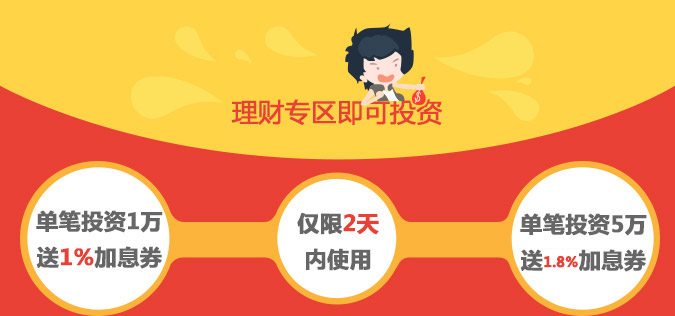
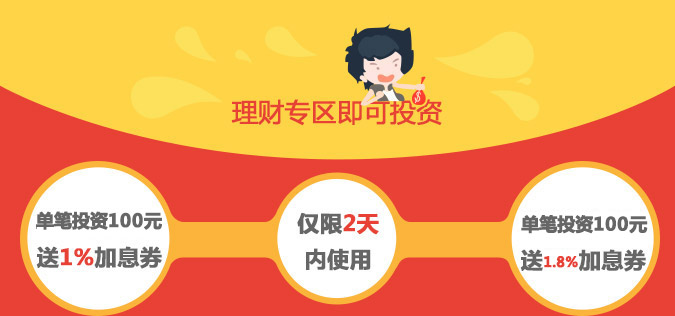
修改秒杀文案

Changed region(s): [[0.0311, 0.6551, 0.2489, 0.7405], [0.7467, 0.6551, 0.9644, 0.7405]]

diff --git a/static/styles/pc_activity/seckill.css b/static/styles/pc_activity/seckill.css
@@ -1,1 +1,1 @@
-.footer-sprite{background:url('../../imgs/pc/footer-s2fc267f4e7.png') no-repeat}.home-sprite{background:url('../../imgs/pc/home-sc828d2d236.png') no-repeat}.seckill-sprite,.seckill .banner .nextAuto .jinbi,.seckill .banner .nextAuto .biaoqian,.seckill .wAuto .pageTitle .pageIcon1,.seckill .wAuto .pageTitle .pageIcon2,.seckill .wAuto .pageContent span,.seckill .wAuto .pageImg,.seckill .wAuto .page3Title,.seckill .footDiv .footMargin .iphone,.seckill .footDiv .footMargin .fonts,.seckill .footDiv .footMargin .erweima{background:url('../../imgs/pc_activity/seckill-sb63c9f9921.png') no-repeat}.experience_gold-sprite{background:url('../../imgs/pc_activity/experience_gold-s13cfc1659e.png') no-repeat}@-webkit-keyframes start{0%{top:-182px}60%{top:82px}100%{top:100px}}@keyframes start{0%{top:-82px}60%{top:82px}100%{top:100px}}@-webkit-keyframes fontsFrames{0%{opacity:0;background-size:0 0}100%{opacity:1;background-size:100% 100%}}@keyframes fontsFrames{0%{opacity:0;background-size:0 0}100%{opacity:1;background-size:100% 100%}}@-webkit-keyframes widthS{0%{opacity:0;width:0}100%{opacity:1;width:645px}}@keyframes widthS{0%{opacity:0;width:0}100%{opacity:1;width:645px}}.seckill{width:100%;height:100%}.seckill .banner{background:url("/static/imgs/pc_activity/seckill/bannerNew.jpg") center center no-repeat;height:684px}.seckill .banner .nextAuto{width:1100px;height:100%;margin:0 auto;position:relative}.seckill .banner .nextAuto a{position:absolute;display:inline-block;width:140px;height:45px;right:241px;bottom:94px;z-index:100}.seckill .banner .nextAuto .jinbi{background-position:0 -809px;height:601px;width:687px;position:absolute;top:82px;left:239px;-webkit-animation:start 1s 1;animation:start 1s 1}.seckill .banner .nextAuto .bannerFonts{background:url("/static/imgs/pc_activity/seckill/bannerFonts.png") center center no-repeat;background-size:100% 100%;width:454px;height:337px;position:absolute;top:174px;left:375px;-webkit-animation-name:fontsFrames;animation-name:fontsFrames;-webkit-animation-duration:1s;animation-duration:1s;-webkit-animation-fill-mode:both;animation-fill-mode:both;-webkit-animation-delay:1s;animation-delay:1s}.seckill .banner .nextAuto .biaoqian{background-position:0 -1937px;width:645px;height:103px;position:absolute;top:512px;left:255px;-webkit-animation-name:widthS;animation-name:widthS;-webkit-animation-duration:1s;animation-duration:1s;-webkit-animation-fill-mode:both;animation-fill-mode:both;-webkit-animation-delay:2s;animation-delay:2s}.seckill .wAuto{width:1098px;margin:0 auto}.seckill .wAuto .pageTitle{margin-top:17px}.seckill .wAuto .pageTitle span{width:85px;height:85px;display:inline-block;float:left}.seckill .wAuto .pageTitle .pageIcon1{background-position:0 -2254px}.seckill .wAuto .pageTitle .pageIcon2{background-position:0 -2169px}.seckill .wAuto .pageTitle .titleC{float:left;margin-left:12px}.seckill .wAuto .pageTitle .titleC p{color:#666;font-size:36px;font-weight:bold}.seckill .wAuto .pageTitle .titleC p em{color:red}.seckill .wAuto .pageTitle .titleC p.p2{font-weight:normal;font-size:22px}.seckill .wAuto .mt40{margin-top:40px}.seckill .wAuto .page1{background:#e84135;background:#e84135 url("/static/imgs/pc_activity/seckill/page1.jpg") center top no-repeat;margin-top:30px}.seckill .wAuto .page1 a{width:320px;height:86px;display:inline-block;font-size:36px;color:#fff;margin-top:143px;line-height:86px}.seckill .wAuto .pageContent{text-align:center;padding:55px 0 32px}.seckill .wAuto .pageContent span{background-position:0 -1410px;width:996px;height:188px;display:inline-block}.seckill .wAuto .pageRemark{text-align:center;color:#fff;font-size:14px}.seckill .wAuto .pageRemark span{cursor:pointer}.seckill .wAuto .f16{font-size:16px;padding:15px 0 25px;font-weight:bold}.seckill .wAuto .borderDiv{width:660px;height:42px;margin:0 auto;border-left:2px solid #e84135;border-right:2px solid #e84135}.seckill .wAuto .remarkContent{padding:35px 70px;border:2px solid #e84135;color:#e84135;font-size:14px;line-height:30px;width:930px;margin:0 auto;border-radius:5px}.seckill .wAuto .remarkContent p span{float:left;display:block}.seckill .wAuto .remarkContent p label{float:left;width:770px;display:block}.seckill .wAuto .lineH84{line-height:84px}.seckill .wAuto .pageImg{background-position:0 0;width:1101px;height:472px}.seckill .wAuto .iWantTo{padding-top:14px}.seckill .wAuto .iWantTo a{width:320px;height:86px;line-height:86px;display:inline-block;font-size:36px;color:#fff;background:#e84135;border-radius:5px}.seckill .wAuto .page3Title{background-position:0 -2339px;width:397px;height:54px;line-height:54px;color:#fff;font-size:30px;font-weight:bold;display:inline-block;margin-top:77px}.seckill .wAuto .national_flow{width:1100px;height:155px;margin:96px auto 0}.seckill .wAuto .national_flow .flow1{width:275px;height:110px;float:left;position:relative;border-top:3px solid #989898}.seckill .wAuto .national_flow .flow1 .flow_border{width:0;height:0;border:13px transparent solid;border-left:13px #989898 solid;position:absolute;top:-13px}.seckill .wAuto .national_flow .flow1 .flow_border2{width:0;height:0;border:13px transparent solid;border-left:13px #989898 solid;position:absolute;top:-13px;right:-15px}.seckill .wAuto .national_flow .flow1 .flow_xian{width:100%;height:0.075rem;background:#989898}.seckill .wAuto .national_flow .flow1 .flowbox{width:100px;height:100px;-webkit-border-radius:50%;-moz-border-radius:50%;-ms-border-radius:50%;-o-border-radius:50%;border-radius:50%;margin-top:-50px;margin-left:80px}.seckill .wAuto .national_flow .flow1 .flowbox1{background:#ea463c url("/static/imgs/pc_activity/seckill/icon1.jpg") no-repeat center center}.seckill .wAuto .national_flow .flow1 .flowbox2{background:#ea463c url("/static/imgs/pc_activity/seckill/icon2.jpg") no-repeat center center}.seckill .wAuto .national_flow .flow1 .flowbox3{background:#ea463c url("/static/imgs/pc_activity/seckill/icon3.jpg") no-repeat center center}.seckill .wAuto .national_flow .flow1 .flowbox4{background:#ea463c url("/static/imgs/pc_activity/seckill/icon4.jpg") no-repeat center center}.seckill .wAuto .national_flow .flow1 .flowtext{font-size:18px;color:#ea463c;width:275px;text-align:center;margin-top:32px;display:block}.seckill .wAuto .page3Remark{font-size:14px;color:#666;padding-left:130px;line-height:30px;padding-top:35px;padding-right:160px}.seckill .wAuto .page3Remark .remarkD{margin-top:40px}.seckill .wAuto .page3Remark p span{float:left;display:block}.seckill .wAuto .page3Remark p label{float:left;width:790px;display:block}.seckill .wAuto .page3Remark p a{color:#ea463c;text-decoration:underline}.seckill .wAuto .page3Remark .mark{font-size:12px;color:#999;text-align:right;padding-bottom:50px}.seckill .footDiv{background:#333;height:290px}.seckill .footDiv .footMargin{width:1100px;margin:0 auto;position:relative}.seckill .footDiv .footMargin .iphone{position:absolute;width:123px;height:223px;left:0;top:-30px;background-position:0 -1598px}.seckill .footDiv .footMargin .fonts{position:absolute;width:653px;height:116px;left:153px;top:83px;background-position:0 -1821px}.seckill .footDiv .footMargin .erweima{position:absolute;width:110px;height:129px;right:13px;top:90px;background-position:0 -2040px}.xl-backtop{width:50px;height:251px;position:fixed;right:0px;bottom:100px;z-index:999;cursor:default;display:none}.xl-backtop span{display:inline-block;width:100%;height:64px}.xl-backtop .backtop{background:#b22621;width:27px;color:#fff;text-align:center;padding:10px 0;margin:10px 0 10px 10px;border-radius:15px}.xl-backtop .sev-backtop{background:#ff5252;font-size:14px}.xl-backtop .erweima{width:146px;height:186px;position:absolute;top:73px;left:-158px;background:url("/static/images/weixin-nqr.png") no-repeat center center;display:none}.xl-backtop a{display:inline-block}.xl-backtop .seven-ten{background:url("/static/imgs/pc_activity/xunlei/seven/sev_com5.png") no-repeat -952px -95px;display:inline-block;width:100%;height:64px}
+.footer-sprite{background:url('../../imgs/pc/footer-s2fc267f4e7.png') no-repeat}.home-sprite{background:url('../../imgs/pc/home-sc828d2d236.png') no-repeat}.seckill-sprite,.seckill .banner .nextAuto .jinbi,.seckill .banner .nextAuto .biaoqian,.seckill .wAuto .pageTitle .pageIcon1,.seckill .wAuto .pageTitle .pageIcon2,.seckill .wAuto .pageContent span,.seckill .wAuto .pageImg,.seckill .wAuto .page3Title,.seckill .footDiv .footMargin .iphone,.seckill .footDiv .footMargin .fonts,.seckill .footDiv .footMargin .erweima{background:url('../../imgs/pc_activity/seckill-s492089588a.png') no-repeat}.experience_gold-sprite{background:url('../../imgs/pc_activity/experience_gold-s13cfc1659e.png') no-repeat}@-webkit-keyframes start{0%{top:-182px}60%{top:82px}100%{top:100px}}@keyframes start{0%{top:-82px}60%{top:82px}100%{top:100px}}@-webkit-keyframes fontsFrames{0%{opacity:0;background-size:0 0}100%{opacity:1;background-size:100% 100%}}@keyframes fontsFrames{0%{opacity:0;background-size:0 0}100%{opacity:1;background-size:100% 100%}}@-webkit-keyframes widthS{0%{opacity:0;width:0}100%{opacity:1;width:645px}}@keyframes widthS{0%{opacity:0;width:0}100%{opacity:1;width:645px}}.seckill{width:100%;height:100%}.seckill .banner{background:url("/static/imgs/pc_activity/seckill/bannerNew.jpg") center center no-repeat;height:684px}.seckill .banner .nextAuto{width:1100px;height:100%;margin:0 auto;position:relative}.seckill .banner .nextAuto a{position:absolute;display:inline-block;width:140px;height:45px;right:241px;bottom:94px;z-index:100}.seckill .banner .nextAuto .jinbi{background-position:0 -809px;height:601px;width:687px;position:absolute;top:82px;left:239px;-webkit-animation:start 1s 1;animation:start 1s 1}.seckill .banner .nextAuto .bannerFonts{background:url("/static/imgs/pc_activity/seckill/bannerFonts.png") center center no-repeat;background-size:100% 100%;width:454px;height:337px;position:absolute;top:174px;left:375px;-webkit-animation-name:fontsFrames;animation-name:fontsFrames;-webkit-animation-duration:1s;animation-duration:1s;-webkit-animation-fill-mode:both;animation-fill-mode:both;-webkit-animation-delay:1s;animation-delay:1s}.seckill .banner .nextAuto .biaoqian{background-position:0 -1937px;width:645px;height:103px;position:absolute;top:512px;left:255px;-webkit-animation-name:widthS;animation-name:widthS;-webkit-animation-duration:1s;animation-duration:1s;-webkit-animation-fill-mode:both;animation-fill-mode:both;-webkit-animation-delay:2s;animation-delay:2s}.seckill .wAuto{width:1098px;margin:0 auto}.seckill .wAuto .pageTitle{margin-top:17px}.seckill .wAuto .pageTitle span{width:85px;height:85px;display:inline-block;float:left}.seckill .wAuto .pageTitle .pageIcon1{background-position:0 -2254px}.seckill .wAuto .pageTitle .pageIcon2{background-position:0 -2169px}.seckill .wAuto .pageTitle .titleC{float:left;margin-left:12px;width:950px}.seckill .wAuto .pageTitle .titleC p{color:#666;font-size:36px;font-weight:bold}.seckill .wAuto .pageTitle .titleC p em{color:red}.seckill .wAuto .pageTitle .titleC p.p2{font-weight:normal;font-size:22px}.seckill .wAuto .mt40{margin-top:40px}.seckill .wAuto .page1{background:#e84135;background:#e84135 url("/static/imgs/pc_activity/seckill/page1.jpg") center top no-repeat;margin-top:30px}.seckill .wAuto .page1 a{width:320px;height:86px;display:inline-block;font-size:36px;color:#fff;margin-top:143px;line-height:86px}.seckill .wAuto .pageContent{text-align:center;padding:55px 0 32px}.seckill .wAuto .pageContent span{background-position:0 -1410px;width:996px;height:188px;display:inline-block}.seckill .wAuto .pageRemark{text-align:center;color:#fff;font-size:14px}.seckill .wAuto .pageRemark span{cursor:pointer}.seckill .wAuto .f16{font-size:16px;padding:15px 0 25px;font-weight:bold}.seckill .wAuto .borderDiv{width:660px;height:42px;margin:0 auto;border-left:2px solid #e84135;border-right:2px solid #e84135}.seckill .wAuto .remarkContent{padding:35px 70px;border:2px solid #e84135;color:#e84135;font-size:14px;line-height:30px;width:930px;margin:0 auto;border-radius:5px}.seckill .wAuto .remarkContent p span{float:left;display:block}.seckill .wAuto .remarkContent p label{float:left;width:770px;display:block}.seckill .wAuto .lineH84{line-height:84px}.seckill .wAuto .pageImg{background-position:0 0;width:1101px;height:472px}.seckill .wAuto .iWantTo{padding-top:14px}.seckill .wAuto .iWantTo a{width:320px;height:86px;line-height:86px;display:inline-block;font-size:36px;color:#fff;background:#e84135;border-radius:5px}.seckill .wAuto .page3Title{background-position:0 -2339px;width:397px;height:54px;line-height:54px;color:#fff;font-size:30px;font-weight:bold;display:inline-block;margin-top:77px}.seckill .wAuto .national_flow{width:1100px;height:155px;margin:96px auto 0}.seckill .wAuto .national_flow .flow1{width:275px;height:110px;float:left;position:relative;border-top:3px solid #989898}.seckill .wAuto .national_flow .flow1 .flow_border{width:0;height:0;border:13px transparent solid;border-left:13px #989898 solid;position:absolute;top:-13px}.seckill .wAuto .national_flow .flow1 .flow_border2{width:0;height:0;border:13px transparent solid;border-left:13px #989898 solid;position:absolute;top:-13px;right:-15px}.seckill .wAuto .national_flow .flow1 .flow_xian{width:100%;height:0.075rem;background:#989898}.seckill .wAuto .national_flow .flow1 .flowbox{width:100px;height:100px;-webkit-border-radius:50%;-moz-border-radius:50%;-ms-border-radius:50%;-o-border-radius:50%;border-radius:50%;margin-top:-50px;margin-left:80px}.seckill .wAuto .national_flow .flow1 .flowbox1{background:#ea463c url("/static/imgs/pc_activity/seckill/icon1.jpg") no-repeat center center}.seckill .wAuto .national_flow .flow1 .flowbox2{background:#ea463c url("/static/imgs/pc_activity/seckill/icon2.jpg") no-repeat center center}.seckill .wAuto .national_flow .flow1 .flowbox3{background:#ea463c url("/static/imgs/pc_activity/seckill/icon3.jpg") no-repeat center center}.seckill .wAuto .national_flow .flow1 .flowbox4{background:#ea463c url("/static/imgs/pc_activity/seckill/icon4.jpg") no-repeat center center}.seckill .wAuto .national_flow .flow1 .flowtext{font-size:18px;color:#ea463c;width:275px;text-align:center;margin-top:32px;display:block}.seckill .wAuto .page3Remark{font-size:14px;color:#666;padding-left:130px;line-height:30px;padding-top:35px;padding-right:160px}.seckill .wAuto .page3Remark .remarkD{margin-top:40px}.seckill .wAuto .page3Remark p span{float:left;display:block}.seckill .wAuto .page3Remark p label{float:left;width:790px;display:block}.seckill .wAuto .page3Remark p a{color:#ea463c;text-decoration:underline}.seckill .wAuto .page3Remark .mark{font-size:12px;color:#999;text-align:right;padding-bottom:50px}.seckill .footDiv{background:#333;height:290px}.seckill .footDiv .footMargin{width:1100px;margin:0 auto;position:relative}.seckill .footDiv .footMargin .iphone{position:absolute;width:123px;height:223px;left:0;top:-30px;background-position:0 -1598px}.seckill .footDiv .footMargin .fonts{position:absolute;width:653px;height:116px;left:153px;top:83px;background-position:0 -1821px}.seckill .footDiv .footMargin .erweima{position:absolute;width:110px;height:129px;right:13px;top:90px;background-position:0 -2040px}.xl-backtop{width:50px;height:251px;position:fixed;right:0px;bottom:100px;z-index:999;cursor:default;display:none}.xl-backtop span{display:inline-block;width:100%;height:64px}.xl-backtop .backtop{background:#b22621;width:27px;color:#fff;text-align:center;padding:10px 0;margin:10px 0 10px 10px;border-radius:15px}.xl-backtop .sev-backtop{background:#ff5252;font-size:14px}.xl-backtop .erweima{width:146px;height:186px;position:absolute;top:73px;left:-158px;background:url("/static/images/weixin-nqr.png") no-repeat center center;display:none}.xl-backtop a{display:inline-block}.xl-backtop .seven-ten{background:url("/static/imgs/pc_activity/xunlei/seven/sev_com5.png") no-repeat -952px -95px;display:inline-block;width:100%;height:64px}

diff --git a/static/scss/pc_activity/partials/_seckill.sass b/static/scss/pc_activity/partials/_seckill.sass
@@ -119,6 +119,7 @@
       .titleC
         float: left
         margin-left: 12px
+        width: 950px
         p
           color: #666666
           font-size: 36px
